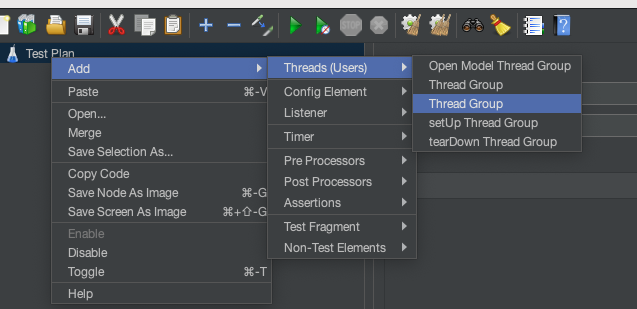
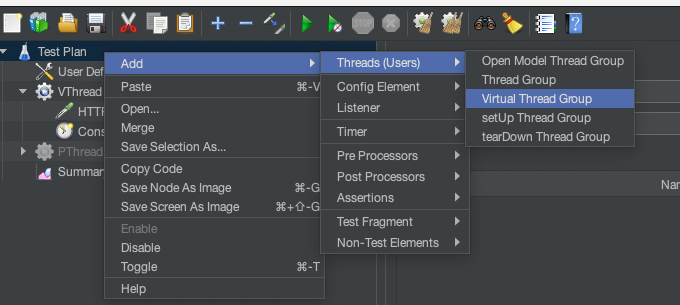
update results and name element

diff --git a/src/main/java/com/example/jmeter/plugin/CustomThreadGroup.java b/src/main/java/com/example/jmeter/plugin/CustomThreadGroup.java
@@ -31,10 +31,11 @@ import java.util.Iterator;
 import java.util.Map;
 import java.util.concurrent.ConcurrentHashMap;
 import java.util.concurrent.TimeUnit;
+import java.util.concurrent.locks.ReentrantLock;
 
 public class CustomThreadGroup extends AbstractThreadGroup {
     private static final long serialVersionUID = 282L;
-    private static final Logger log = LoggerFactory.getLogger(ThreadGroup.class);
+    private static final Logger log = LoggerFactory.getLogger(CustomThreadGroup.class);
     private static final long WAIT_TO_DIE;
     private static final int RAMPUP_GRANULARITY;
     public static final String RAMP_TIME = "ThreadGroup.ramp_time";
@@ -44,7 +45,7 @@ public class CustomThreadGroup extends AbstractThreadGroup {
     public static final String DELAY = "ThreadGroup.delay";
     private transient Thread threadStarter;
     private final ConcurrentHashMap<JMeterThread, Thread> allThreads = new ConcurrentHashMap();
-    private transient Object addThreadLock = new Object();
+    private transient ReentrantLock addThreadLock = new ReentrantLock();
     private volatile boolean running = false;
     private int groupNumber;
     private boolean delayedStartup;
@@ -124,7 +125,7 @@ public class CustomThreadGroup extends AbstractThreadGroup {
         this.delayedStartup = this.isDelayedStartup();
         log.info("Starting thread group... number={} threads={} ramp-up={} delayedStart={}", new Object[]{this.groupNumber, numThreads, rampUpPeriodInSeconds, this.delayedStartup});
         if (this.delayedStartup) {
-//            this.threadStarter = new Thread(new CustomThreadGroup.ThreadStarter(notifier, threadGroupTree, engine), this.getName() + "-ThreadStarter");
+//          this.threadStarter = new Thread(new CustomThreadGroup.ThreadStarter(notifier, threadGroupTree, engine), this.getName() + "-ThreadStarter");
             this.threadStarter = Thread.ofVirtual().unstarted(new CustomThreadGroup.ThreadStarter(notifier, threadGroupTree, engine));
             this.threadStarter.setName(this.getName() + "-ThreadStarter");
             this.threadStarter.setDaemon(true);
@@ -158,7 +159,7 @@ public class CustomThreadGroup extends AbstractThreadGroup {
         JMeterThread jmThread = this.makeThread(engine, this, notifier, this.groupNumber, threadNum, cloneTree(threadGroupTree), variables);
         this.scheduleThread(jmThread, now);
         jmThread.setInitialDelay(delay);
-//        Thread newThread = new Thread(jmThread, jmThread.getThreadName());
+//      Thread newThread = new Thread(jmThread, jmThread.getThreadName());
         Thread newThread = Thread.ofVirtual().unstarted(jmThread);
         newThread.setName(jmThread.getThreadName());
         this.registerStartedThread(jmThread, newThread);
@@ -168,7 +169,7 @@ public class CustomThreadGroup extends AbstractThreadGroup {
 
     private void readObject(ObjectInputStream in) throws IOException, ClassNotFoundException {
         in.defaultReadObject();
-        this.addThreadLock = new Object();
+        //this.addThreadLock = new Object();
     }
 
     private void registerStartedThread(JMeterThread jMeterThread, Thread newThread) {
@@ -179,9 +180,16 @@ public class CustomThreadGroup extends AbstractThreadGroup {
         long now = System.currentTimeMillis();
         JMeterContext context = JMeterContextService.getContext();
         int numThreads;
-        synchronized(this.addThreadLock) {
+//        synchronized(this.addThreadLock) {
+//            numThreads = this.getNumThreads();
+//            this.setNumThreads(numThreads + 1);
+//        }
+        try {
+            addThreadLock.lock();
             numThreads = this.getNumThreads();
             this.setNumThreads(numThreads + 1);
+        } finally {
+            addThreadLock.unlock();
         }
 
         JMeterThread newJmThread = this.startNewThread(this.notifier, this.threadGroupTree, engine, numThreads, context.getVariables(), now, delay);

diff --git a/src/main/java/com/example/jmeter/plugin/CustomThreadGroupGui.java b/src/main/java/com/example/jmeter/plugin/CustomThreadGroupGui.java
@@ -11,7 +11,6 @@ import javax.swing.*;
 import org.apache.jmeter.control.LoopController;
 import org.apache.jmeter.control.gui.LoopControlPanel;
 import org.apache.jmeter.gui.JBooleanPropertyEditor;
-import org.apache.jmeter.gui.TestElementMetadata;
 import org.apache.jmeter.testelement.TestElement;
 import org.apache.jmeter.testelement.property.BooleanProperty;
 import org.apache.jmeter.threads.AbstractThreadGroup;
@@ -24,9 +23,6 @@ import java.awt.event.ItemEvent;
 import java.awt.event.ItemListener;
 import net.miginfocom.swing.MigLayout;
 
-@TestElementMetadata(
-    labelResource = "threadgroup"
-)
 public class CustomThreadGroupGui extends AbstractThreadGroupGui implements ItemListener {
     private static final long serialVersionUID = 240L;
     private LoopControlPanel loopPanel;
@@ -124,7 +120,7 @@ public class CustomThreadGroupGui extends AbstractThreadGroupGui implements Item
     }
 
     public String getLabelResource() {
-        return "threadgroup1";
+        return "threadgroup";
     }
 
     public void clearGui() {
@@ -172,5 +168,10 @@ public class CustomThreadGroupGui extends AbstractThreadGroupGui implements Item
         threadPropsPanel.add(this.delayLabel);
         threadPropsPanel.add(this.delay);
         this.add(threadPropsPanel, "Center");
+    }
+
+    @Override
+    public String getStaticLabel() {
+        return "Virtual Thread Group";
     }
 }

diff --git a/ReadMe.md b/ReadMe.md
@@ -52,7 +52,7 @@ To use this JMeter plugin, follow these steps:
 
 3. You can now use the plugin in your JMeter test plans by adding the appropriate elements to your test plan.
 
-4. Add Thread group element Note: I did not bother to rename extension, so you will find redundant menu item
+4. Add **Virtual Thread Group** element
 ![Alt Text](screenshots/Menu.png)
 5. Configure Threads. You will see title Virtual Thread Properties header for right thread group. 
 ![Alt Text](screenshots/ThreadProps.png)
@@ -67,21 +67,6 @@ location /test {
 
 7. Final Result.
 ![Alt Text](screenshots/Result.png)
-
-
-
-## Building the Maven Project
-
-If you want to make changes to the project and rebuild it, follow these steps:
-
-1. Make your changes to the source code.
-
-2. Build the project using Maven:
-   ```shell
-   mvn clean install
-   ```
-
-3. Update the JAR file in your JMeter installation's `lib/ext/` directory as described in the "Using the Plugin in JMeter" section above.
 
 ## Contribution
 
